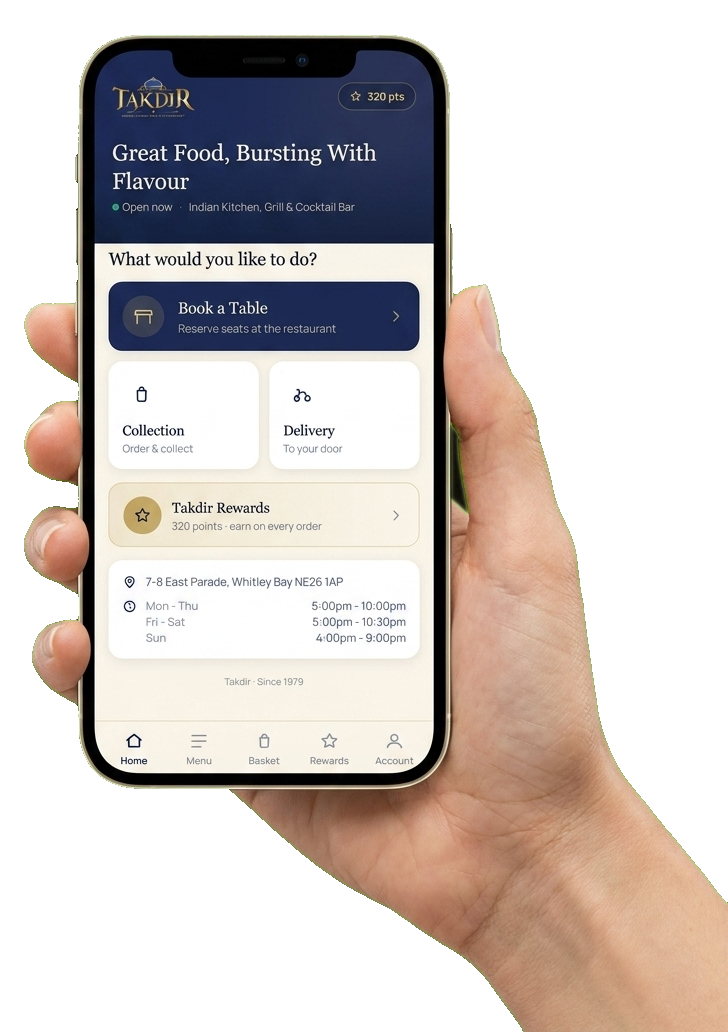
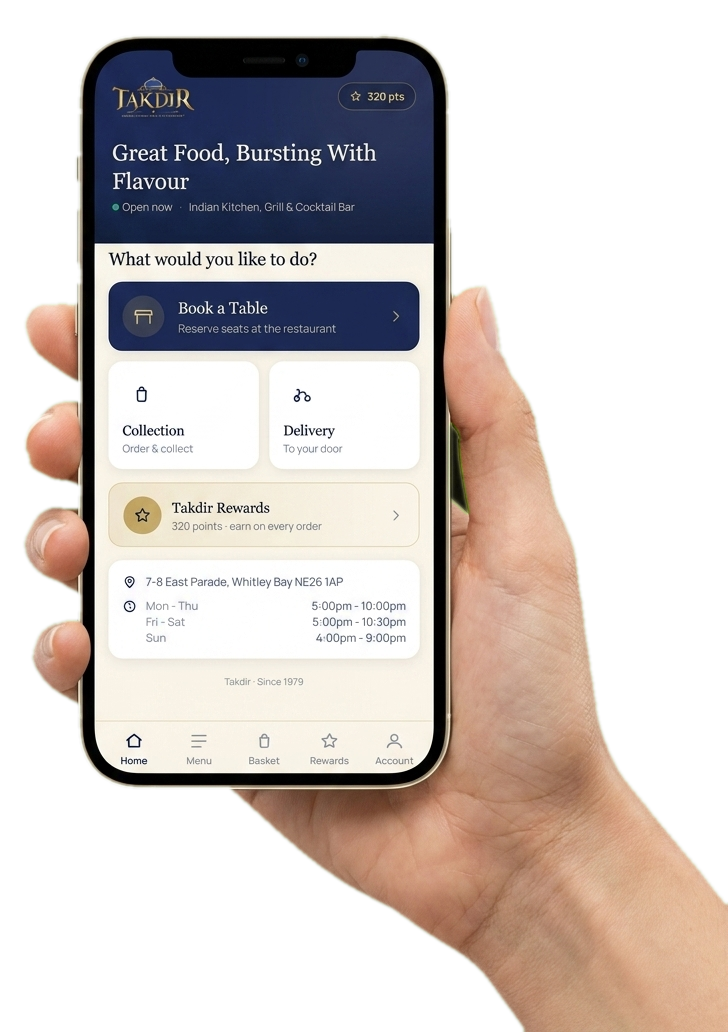
App page mobile pass: cleaner hero cutout, features carousel, tighter spacing

diff --git a/app/index.html b/app/index.html
@@ -75,7 +75,27 @@
       -webkit-mask-image: linear-gradient(to bottom, #000 86%, transparent 100%);
       mask-image: linear-gradient(to bottom, #000 86%, transparent 100%);
     }
-    @media (max-width: 1024px) { .hero-grid { grid-template-columns: 1fr; } .hero-visual { display: none; } }
+    @media (max-width: 1024px) {
+      .hero-grid { grid-template-columns: 1fr; gap: 1.5rem; }
+      .hero-visual { max-width: 270px; margin: 0.5rem auto 0; }
+    }
+
+    /* Mobile pass */
+    .mobile-swipe-hint { display: none; }
+    @media (max-width: 720px) {
+      .app-hero { padding-top: calc(var(--nav-height) + 2.2rem); }
+      .app-hero .lede { margin-bottom: 1.6rem; }
+      .store-line { margin-bottom: 1.6rem; }
+      .statbar { margin-top: 2.4rem; padding: 1.8rem 0; }
+      /* What-we-build cards become a swipe carousel */
+      .features-grid { display: flex !important; overflow-x: auto; scroll-snap-type: x mandatory; gap: 1rem; padding-bottom: 1rem; -webkit-overflow-scrolling: touch; scrollbar-width: none; }
+      .features-grid::-webkit-scrollbar { display: none; }
+      .features-grid .feature-card { flex: 0 0 82%; scroll-snap-align: start; }
+      .mobile-swipe-hint { display: block; font-family: var(--font-mono); font-size: 0.78rem; color: var(--mid); letter-spacing: 0.06em; margin-top: 0.4rem; }
+      .price-card { padding: 2rem 1.5rem; }
+      .shots { gap: 1.2rem; }
+      .phone { width: 216px; }
+    }
     .app-hero h1 { font-family: var(--font-head); font-weight: 700; font-size: clamp(2.6rem, 6vw, 5rem); line-height: 1.02; letter-spacing: -0.04em; margin: 1.2rem 0 1.5rem; max-width: 16ch; }
     .app-hero h1 em { color: var(--signal); font-style: normal; }
     .app-hero .lede { font-size: clamp(1.05rem, 2vw, 1.35rem); color: #4a4a44; max-width: 46ch; line-height: 1.6; margin-bottom: 2.2rem; }
@@ -211,7 +231,7 @@
         <span class="note">£249 setup · £99/month · 0% commission · 12-month minimum term</span>
       </div>
       </div>
-      <div class="hero-visual"><img src="/app/screens/takdir-phone-hand.png?v=3" alt="Takdir's ordering app held in a hand" width="728" height="1032" /></div>
+      <div class="hero-visual"><img src="/app/screens/takdir-phone-hand.png?v=4" alt="Takdir's ordering app held in a hand" width="728" height="1032" /></div>
       </div>
 
       <div class="statbar">
@@ -250,6 +270,7 @@
         <div class="feature-card"><div class="feature-label">05</div><h3>Kitchen &amp; driver screens</h3><p>Orders land straight on a screen in the kitchen. Your drivers get their own queue. The whole operation runs through one clean system.</p></div>
         <div class="feature-card"><div class="feature-label">06</div><h3>We build and run it</h3><p>You do not touch a line of code. We set up the branding, the full menu, payments, tracking, loyalty and push, launch it, and keep it running.</p></div>
       </div>
+      <div class="mobile-swipe-hint">Swipe to see all six &rarr;</div>
     </div>
   </section>
 